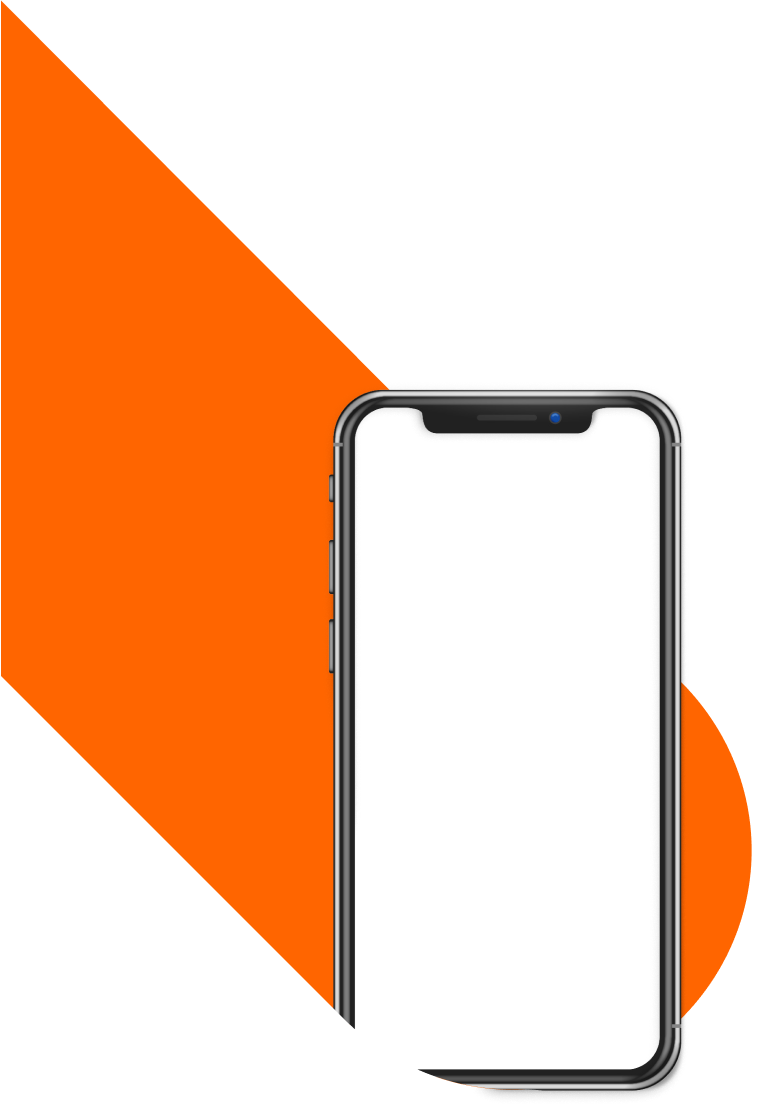
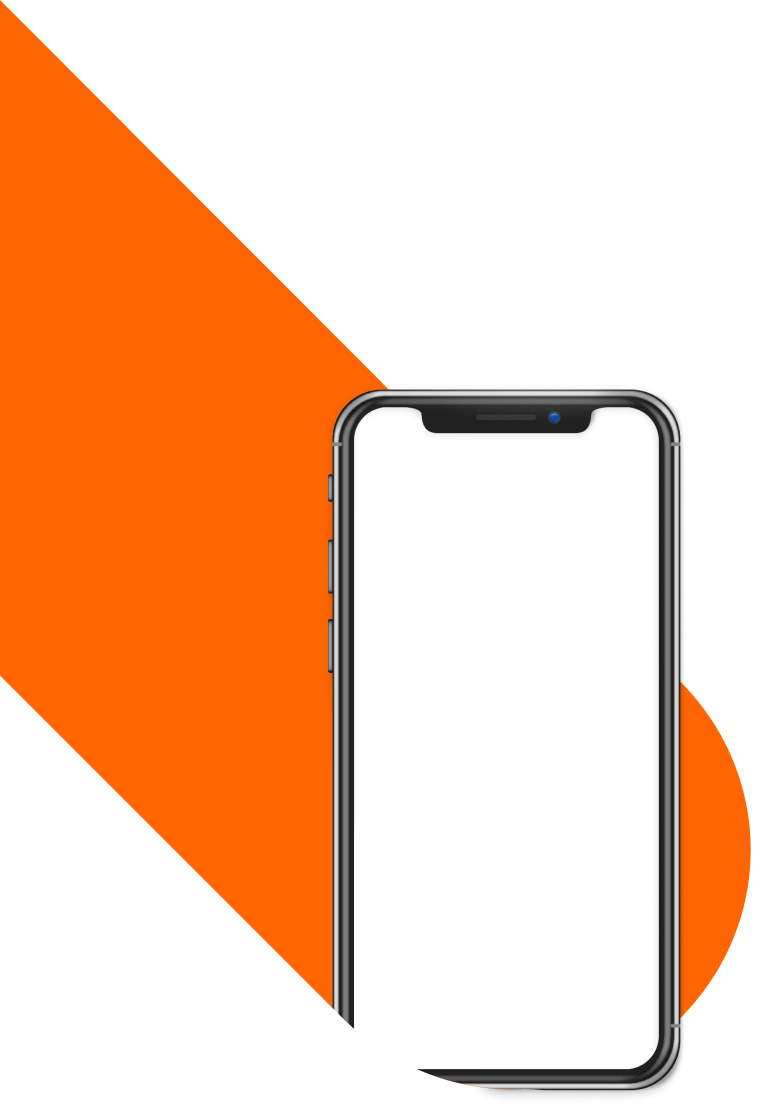
Fixed cellphone on desktop

Changed region(s): [[0.4062, 0.3689, 0.4688, 0.9222], [0.5625, 0.953, 0.875, 1.0]]

diff --git a/styles/index.css b/styles/index.css
@@ -36,6 +36,10 @@ Large Desktop Devices > 1200px xl
   box-sizing: border-box;
 }
 
+*:focus  {
+  outline: none;
+}
+
 body {
   margin: 0;
   padding: 0;
@@ -473,7 +477,7 @@ header {
   width: 100%;
   min-height: 550px;
   height: 160vw;
-  margin-top: -50px;
+  margin-top: -14vw;
   background-image: url(../assets/img/Cellphone.png);
   background-repeat: no-repeat;
   background-size: 125%;
@@ -484,13 +488,13 @@ header {
 
 .cellphone-slider-container {
   width: 50%;
-  margin: max(100px, calc(110vw / 3 - 35px)) auto 50px auto;
+  margin: 26.5vw auto 50px auto;
 }
 
 @media (max-width: 320px ) {
   .cellphone-slider-container {
     width: 50%;
-    margin: 115px auto 50px auto;
+    margin: 37vw auto 50px auto;
   }
 }
 
@@ -542,10 +546,6 @@ header {
   width: 50px;
   height: 50px;
   fill: var(--clr-orange-500);
-}
-
-#arrow-next-svg {
-  transform: rotate(180deg);
 }
 
 #arrow-next-svg,

diff --git a/index.html b/index.html
@@ -394,7 +394,7 @@
               <use xlink:href="assets/img/iconos.svg#arrow-outline"></use>
             </svg>
             <svg id="arrow-next-svg">
-              <use xlink:href="assets/img/iconos.svg#arrow-outline"></use>
+              <use xlink:href="assets/img/iconos.svg#arrow-filled"></use>
             </svg>
           </div>
         </div>
